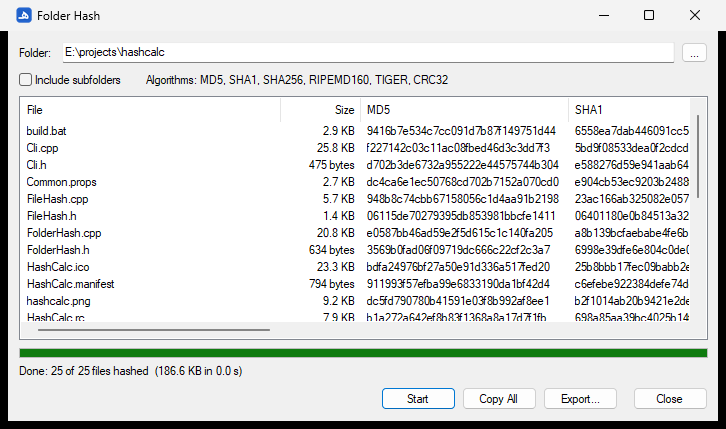
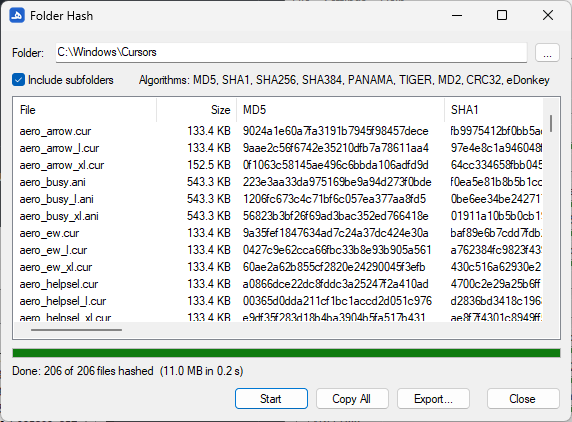
Update screenshot

diff --git a/src/version.h b/src/version.h
@@ -1,5 +1,5 @@
 #pragma once
 // Updated by build.bat: the minor version increments on every build.
 #define VERSION_MAJOR 1
-#define VERSION_MINOR 9
-#define VERSION_STR "1.9"
+#define VERSION_MINOR 10
+#define VERSION_STR "1.10"

diff --git a/README.md b/README.md
@@ -119,7 +119,6 @@ hashcalc/
 ├─ HashCalc.vcxproj       project file
 ├─ Common.props           shared build settings (small, portable Release build)
 ├─ build.bat              release build, writes dist\HashCalc-<arch>.exe
-├─ push.bat               commit and push to GitHub in one step
 ├─ src/
 │  ├─ core/               hash algorithms (Hashes) and file/folder hashing (FileHash)
 │  ├─ gui/                main window, Folder Hash window, settings and Explorer menu
